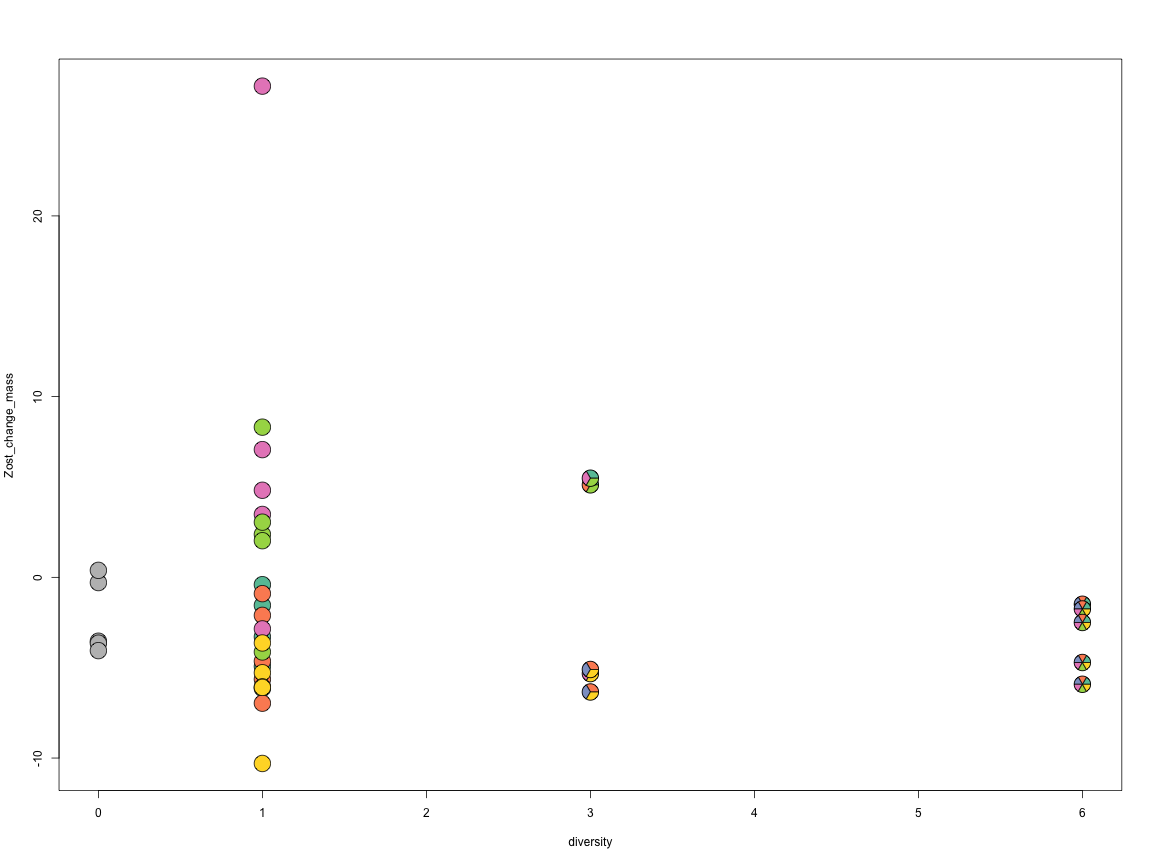
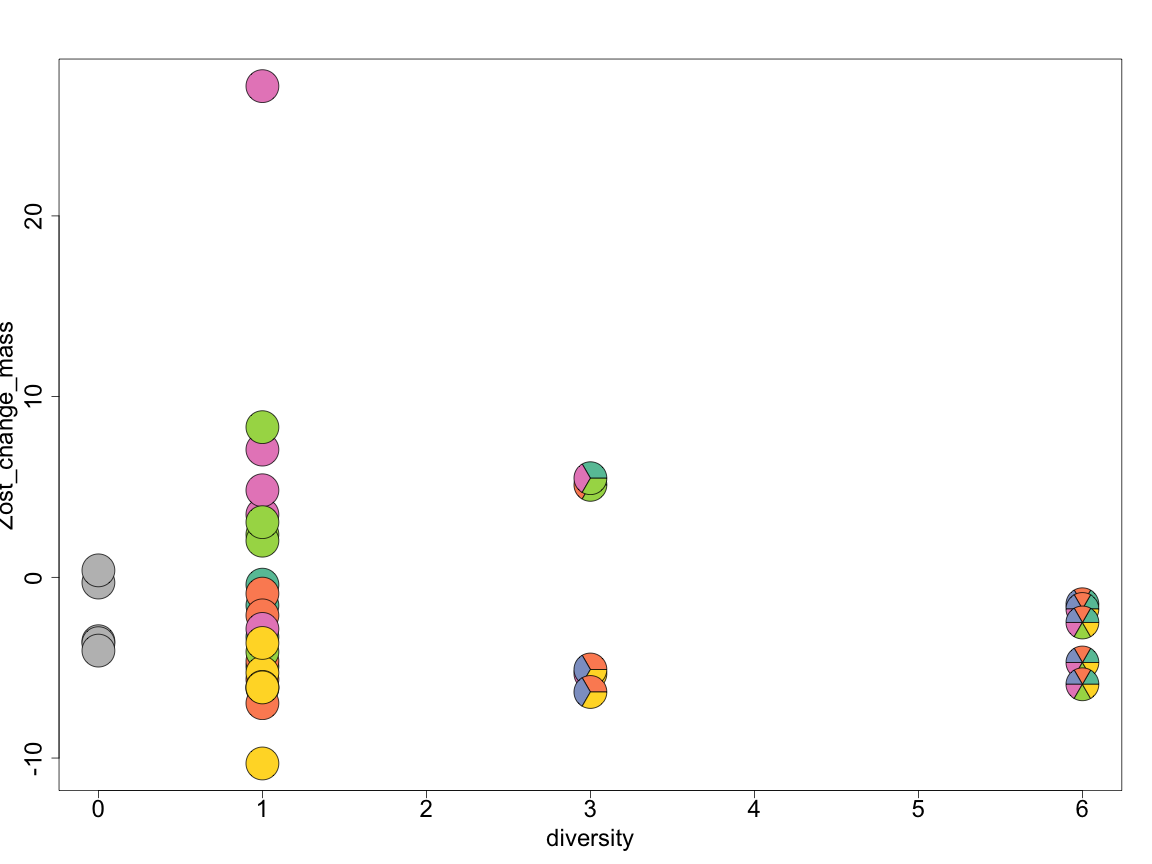
Better README

diff --git a/README.md b/README.md
@@ -38,7 +38,8 @@ data(duffy_2003)
 sp <- 18:23
 
 # plot the raw data
-pieDivPlot(diversity, Zost_change_mass, sp, data = duffy_2003)
+pieDivPlot(diversity, Zost_change_mass, sp, data = duffy_2003, cex.axis = 2, 
+    cex.lab = 2, radius = 0.1)
 ```
 
 <img src="figure/unnamed-chunk-2.png" title="plot of chunk unnamed-chunk-2" alt="plot of chunk unnamed-chunk-2" width="800px" height="600px" />
@@ -58,7 +59,7 @@ duffy_2003_Zost <- ddply(duffy_2003, names(duffy_2003)[c(4:5, sp)], summarise,
 duffy_2003_Zost$se_zost_change[which(is.na(duffy_2003_Zost$se_zost_change))] <- 0
 
 pieDivPlot(diversity, mean_zost_change, 3:8, se_zost_change, data = duffy_2003_Zost, 
-    ylim = c(-8, 13))
+    ylim = c(-8, 13), cex.axis = 2, cex.lab = 2, radius = 0.1)
 
 abline(lm(Zost_change_mass ~ diversity, data = duffy_2003), lwd = 1.5, lty = 2, 
     col = "red")
